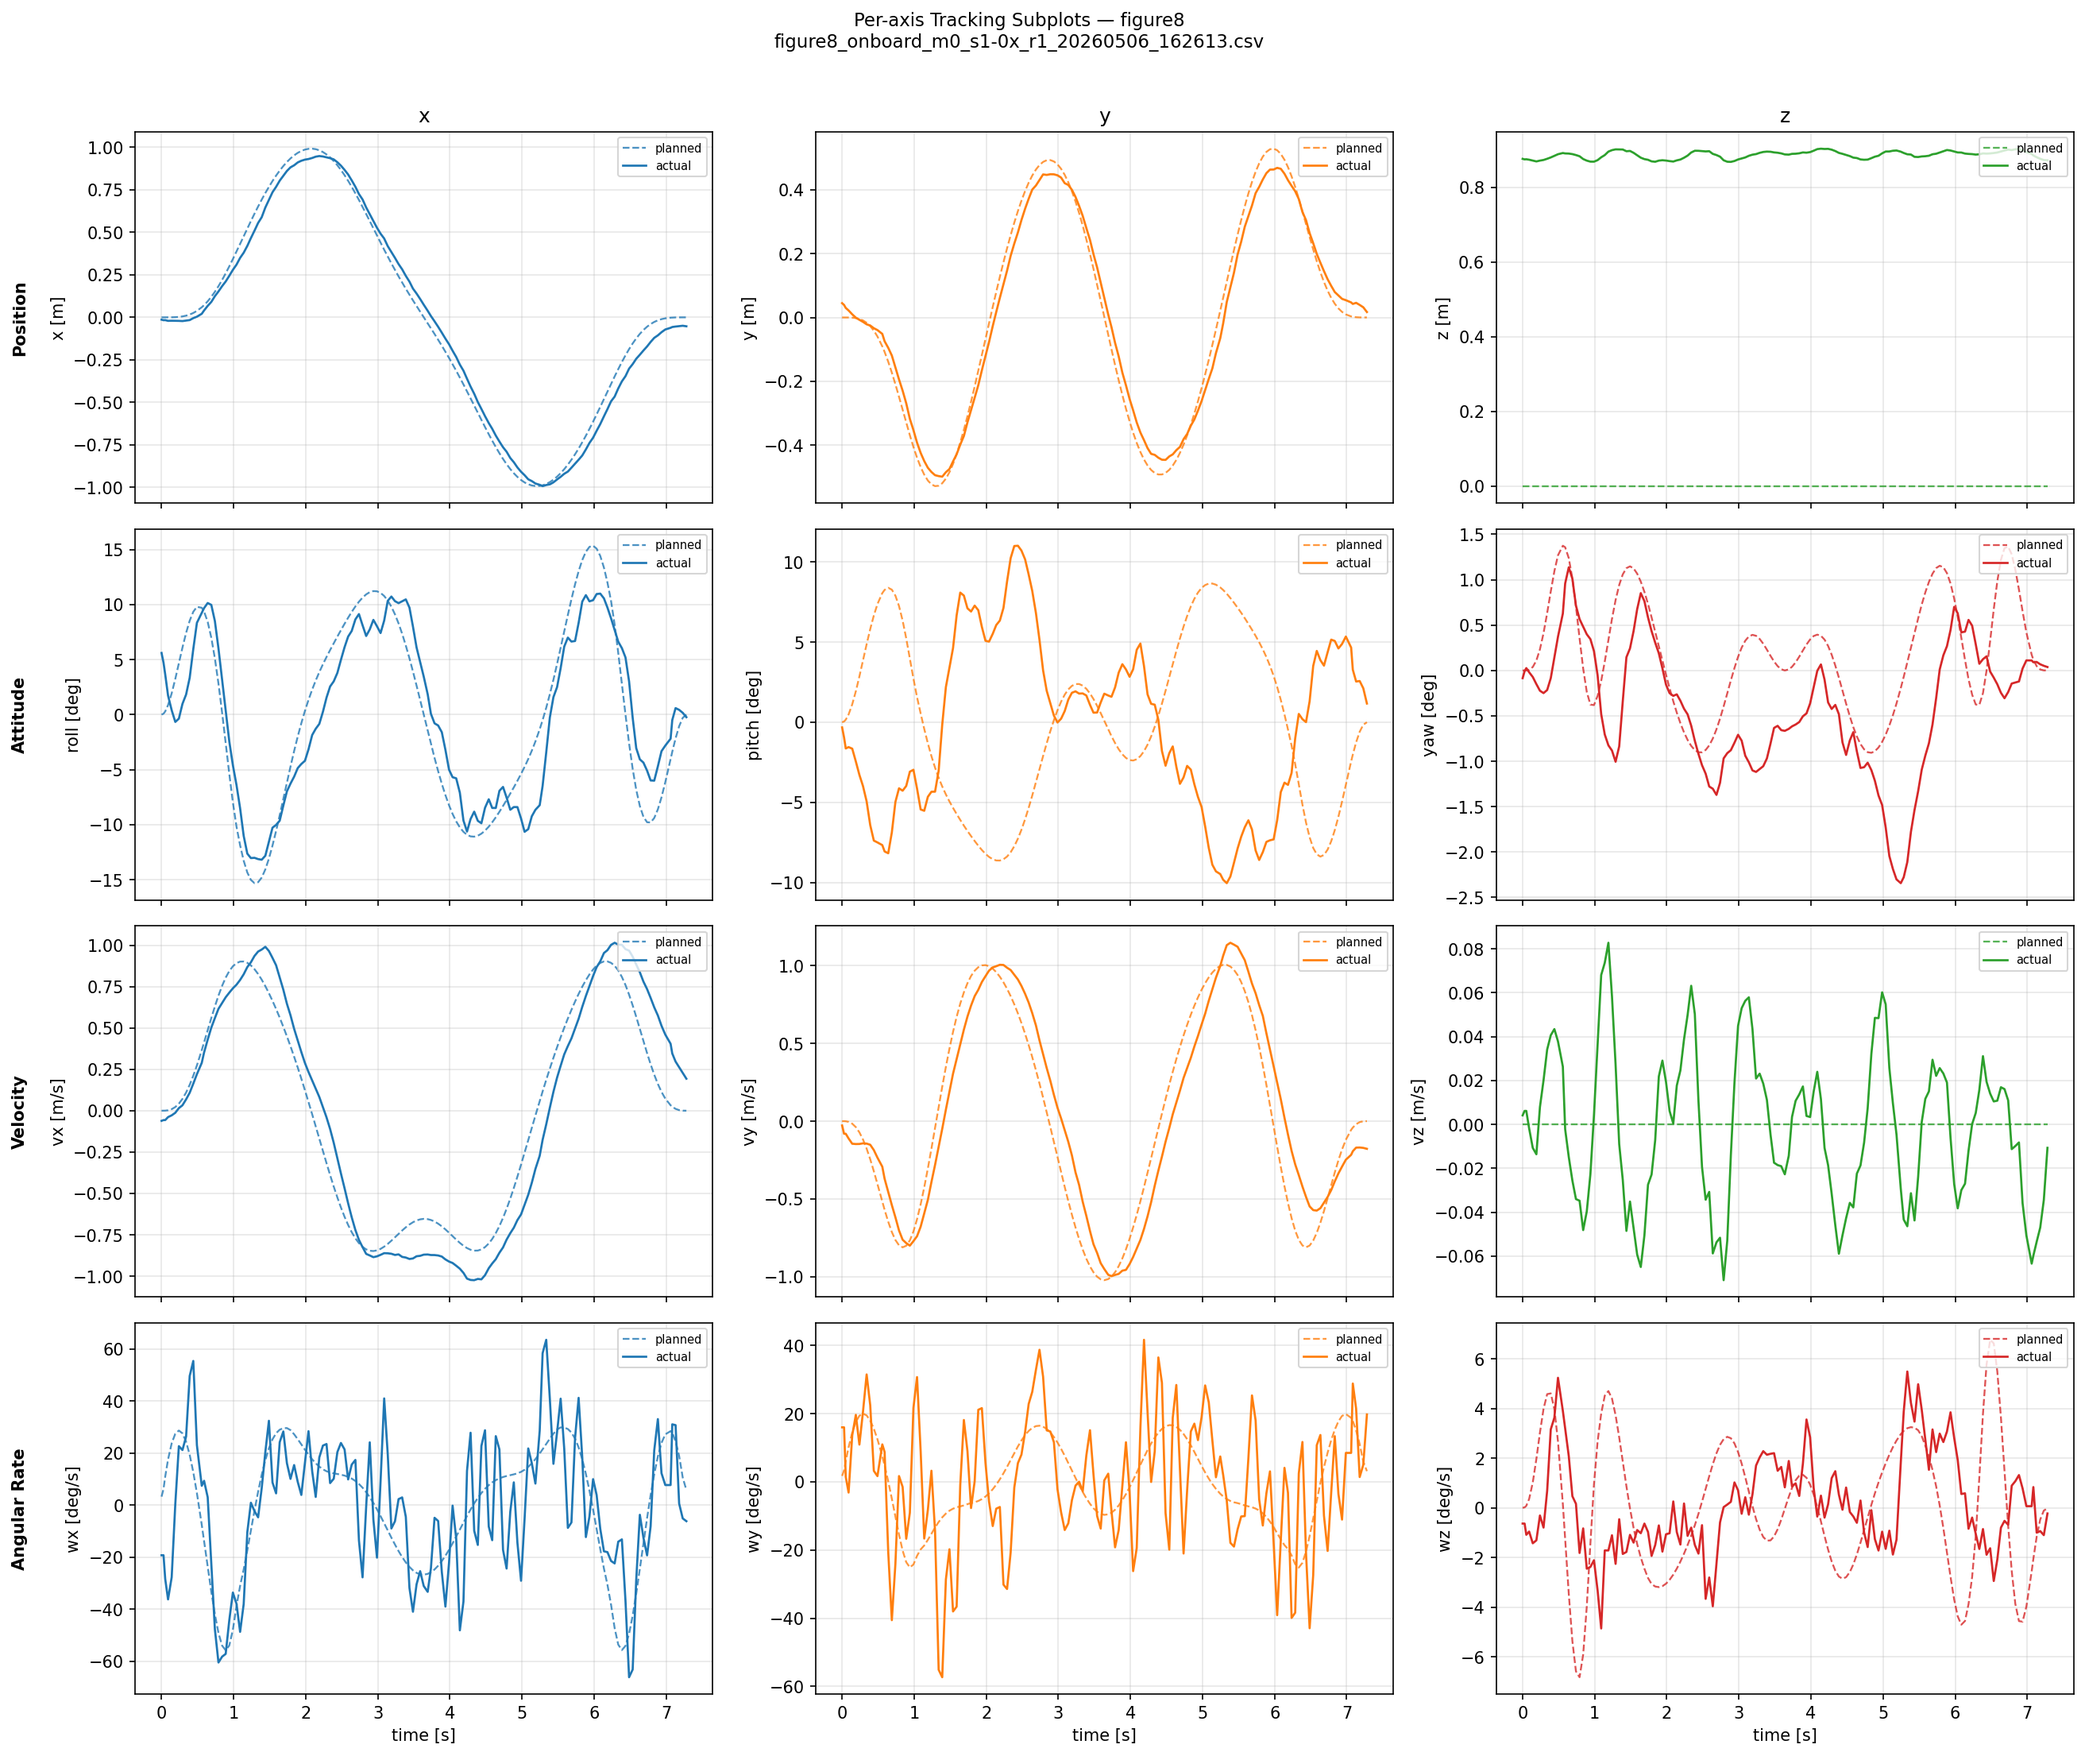
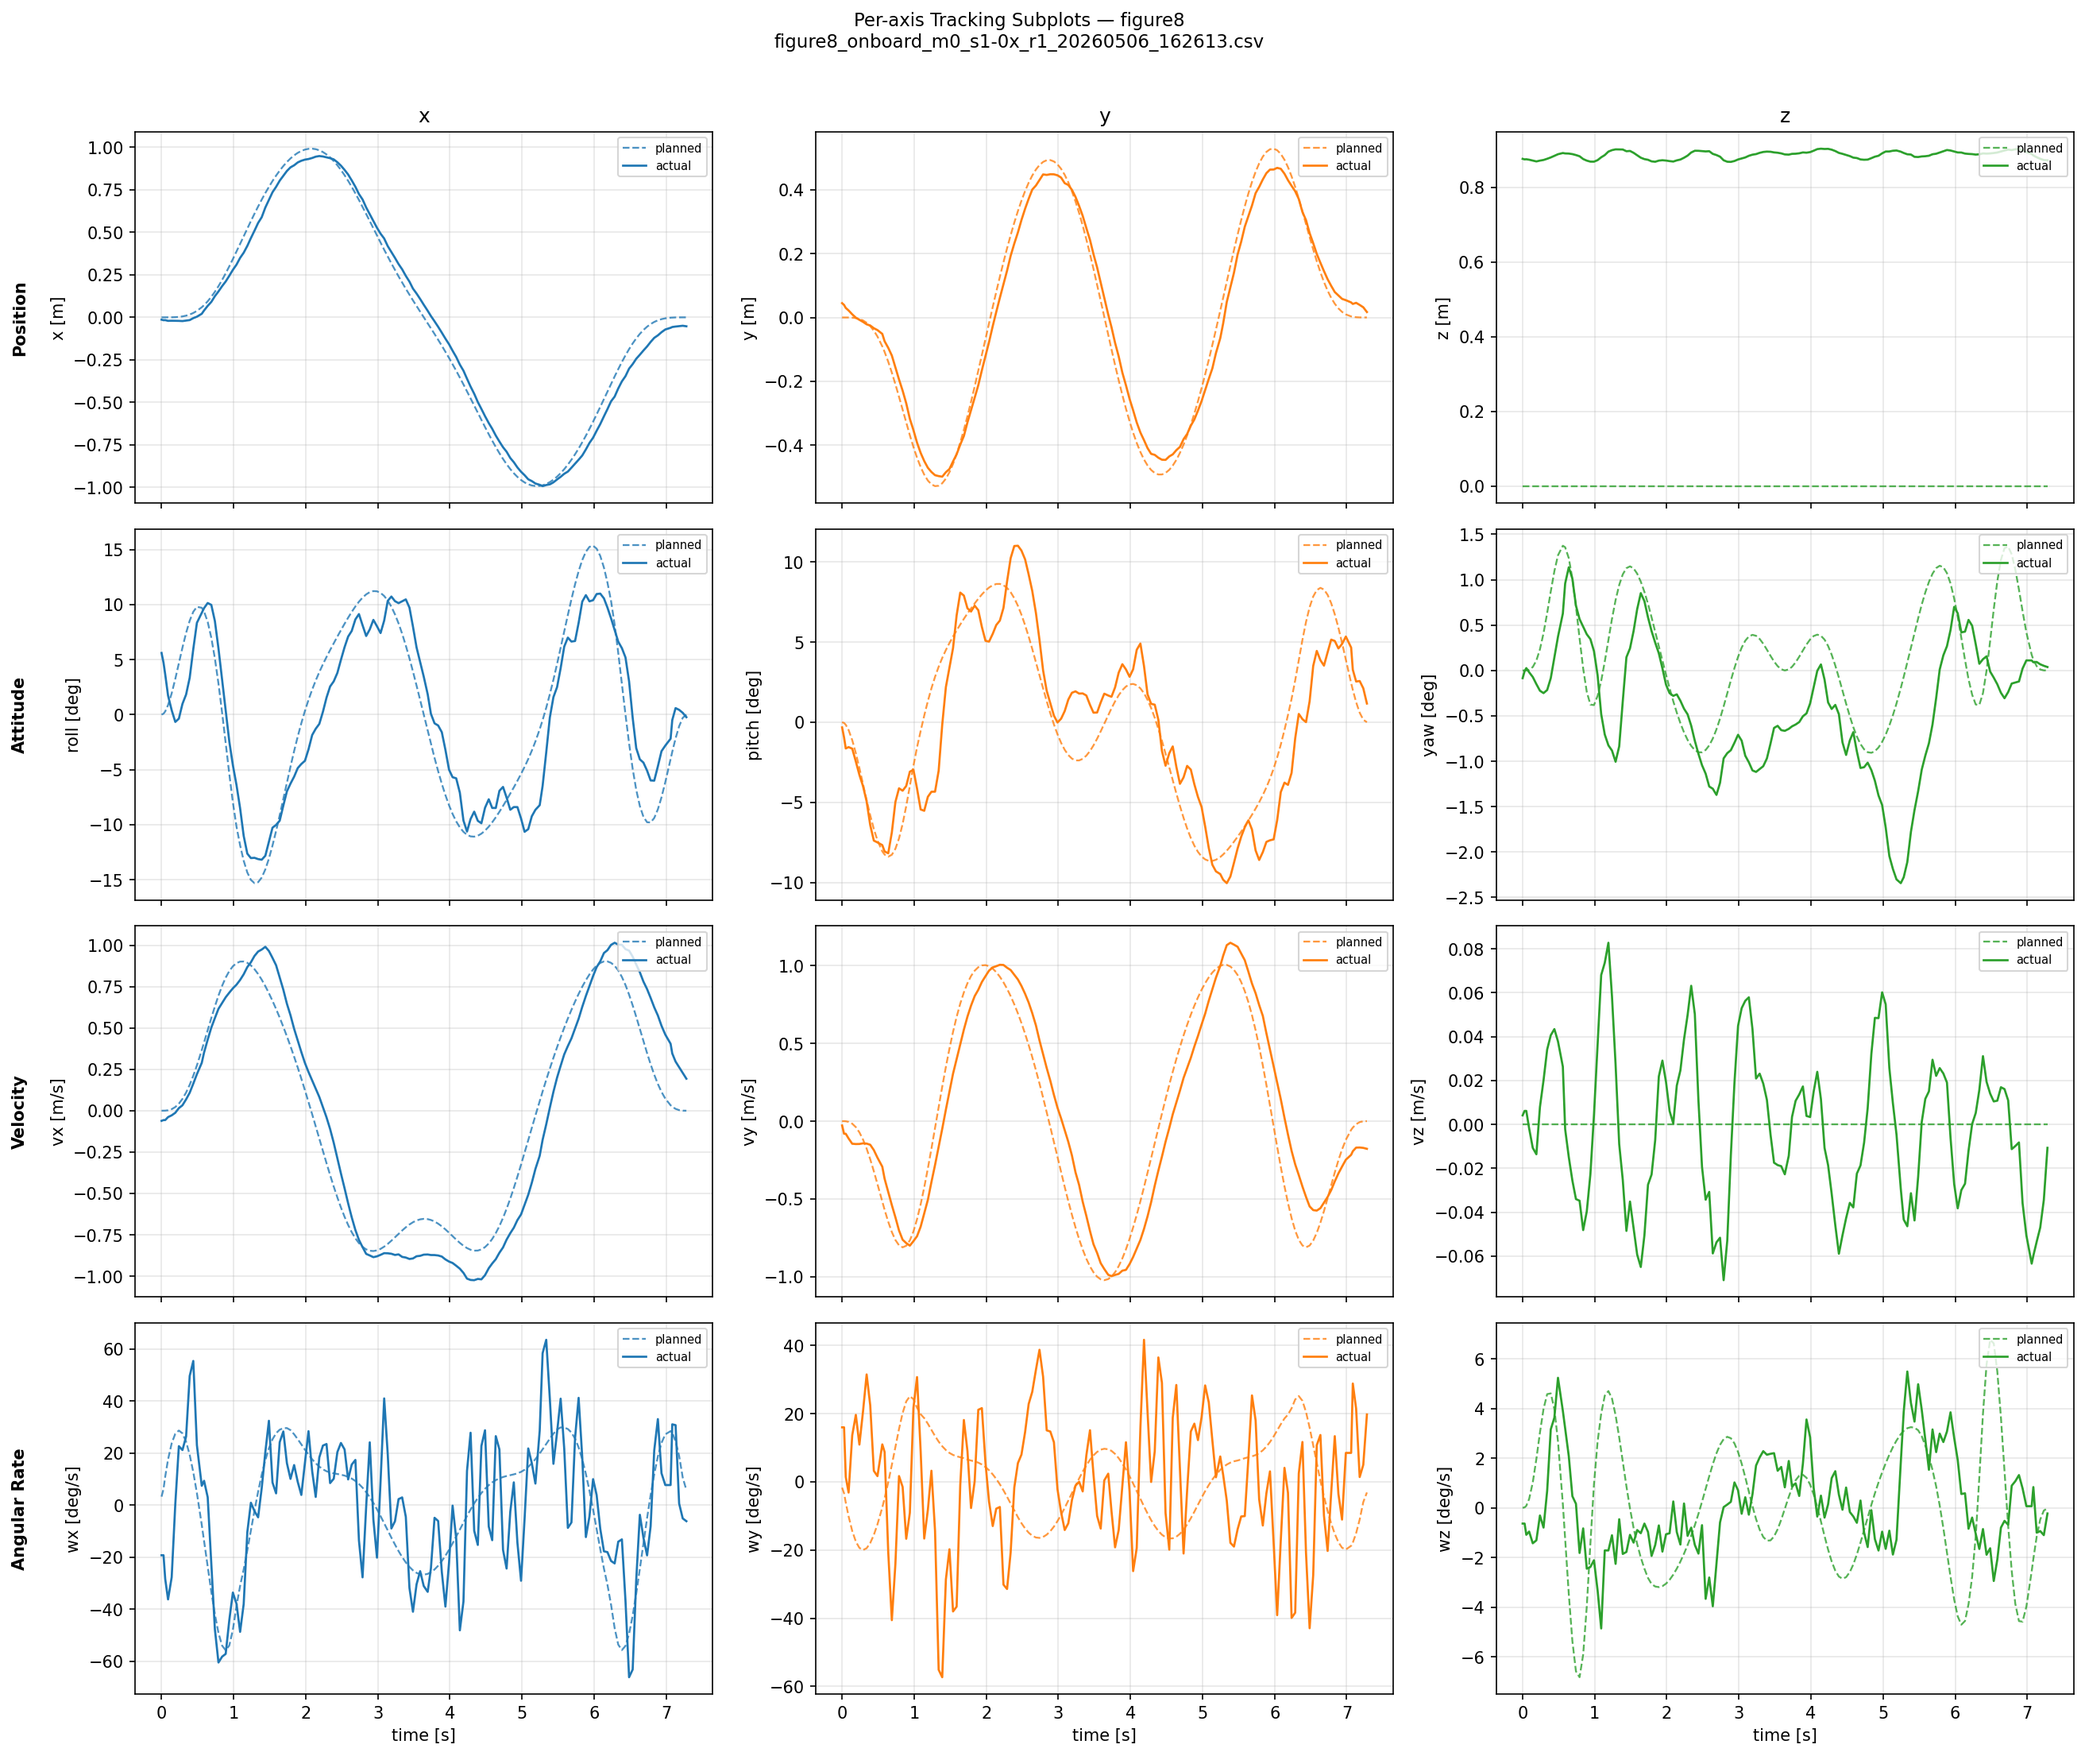
fix sign flip in analytics script.

diff --git a/Controls/analyze_flight.py b/Controls/analyze_flight.py
@@ -1478,7 +1478,9 @@ def compute_planned_attitude(segs, t_elapsed, speed_scale, xy_scale, loop=False)
 
     # ZYX Euler angles
     roll_rad = np.arctan2(R[2, 1], R[2, 2])
-    pitch_rad = np.arcsin(-float(np.clip(R[2, 0], -1.0, 1.0)))
+    # Match Crazyflie log convention: pitch sign is opposite of the raw ZYX extraction
+    # used in the flatness frame derivation.
+    pitch_rad = -np.arcsin(-float(np.clip(R[2, 0], -1.0, 1.0)))
     yaw_rad = np.arctan2(R[1, 0], R[0, 0])
 
     return np.degrees(roll_rad), np.degrees(pitch_rad), np.degrees(yaw_rad)
@@ -1858,10 +1860,11 @@ def plot_helix_analysis(data, csv_path, lap_time=10.5):
         x_B = xb_raw / xb_n if xb_n > 1e-9 else np.array([1., 0., 0.])
         y_B = np.cross(z_B, x_B)
         R = np.column_stack([x_B, y_B, z_B])
-        p_pitch[i] = _math.degrees(_math.asin(max(-1., min(1., -R[2, 0]))))
+        p_pitch[i] = -_math.degrees(_math.asin(max(-1., min(1., -R[2, 0]))))
         p_roll[i]  = _math.degrees(_math.atan2(R[2, 1], R[2, 2]))
     p_omega_x = np.gradient(p_roll,  ts)
-    p_omega_y = np.gradient(p_pitch, ts)
+    # Gyro Y in logs is opposite of d(pitch)/dt from this Euler convention.
+    p_omega_y = -np.gradient(p_pitch, ts)
     p_omega_z = np.zeros(len(ts))   # yaw constant
 
     # ── Errors ────────────────────────────────────────────────────────────
@@ -2106,7 +2109,7 @@ def plot_onboard_circle_analysis(data, csv_path, n_reps=1):
         xb_raw = np.cross(yc, f); xb_n = float(np.linalg.norm(xb_raw))
         x_B = xb_raw / xb_n if xb_n > 1e-9 else np.array([1., 0., 0.])
         R = np.column_stack([x_B, np.cross(z_B, x_B), z_B])
-        p_pitch[i] = _math.degrees(_math.asin(max(-1., min(1., -R[2, 0]))))
+        p_pitch[i] = -_math.degrees(_math.asin(max(-1., min(1., -R[2, 0]))))
         p_roll[i]  = _math.degrees(_math.atan2(R[2, 1], R[2, 2]))
 
     err_xy  = np.sqrt((xa - xr)**2 + (ya - yr)**2)
@@ -2273,7 +2276,7 @@ def plot_onboard_helix_analysis(data, csv_path, n_reps=1):
         xb_raw = np.cross(yc, f); xb_n = float(np.linalg.norm(xb_raw))
         x_B = xb_raw / xb_n if xb_n > 1e-9 else np.array([1., 0., 0.])
         R = np.column_stack([x_B, np.cross(z_B, x_B), z_B])
-        p_pitch[i] = _math.degrees(_math.asin(max(-1., min(1., -R[2, 0]))))
+        p_pitch[i] = -_math.degrees(_math.asin(max(-1., min(1., -R[2, 0]))))
         p_roll[i]  = _math.degrees(_math.atan2(R[2, 1], R[2, 2]))
 
     err_xy  = np.sqrt((xa - xr)**2 + (ya - yr)**2)
@@ -2823,7 +2826,8 @@ def plot_analysis(data, segs, traj_type, speed_scale, xy_scale, loop, csv_path):
     # Planned angular rates: numerical diff of Euler angles (Euler rates ≈ body omega for small roll/pitch)
     dt = np.gradient(times)
     p_omega_x = np.gradient(planned_att[:, 0], times)   # droll/dt  [deg/s]
-    p_omega_y = np.gradient(planned_att[:, 1], times)   # dpitch/dt [deg/s]
+    # Keep wy sign consistent with logged gyro_y convention.
+    p_omega_y = -np.gradient(planned_att[:, 1], times)  # dpitch/dt [deg/s]
     p_omega_z = np.gradient(planned_att[:, 2], times)   # dyaw/dt   [deg/s]
 
     # Errors — Z uses relative coords (poly4d is relative_position=True)
@@ -3063,7 +3067,7 @@ def plot_analysis(data, segs, traj_type, speed_scale, xy_scale, loop, csv_path):
         [
             ("roll [deg]", data["roll_deg"], p_roll, "tab:blue"),
             ("pitch [deg]", data["pitch_deg"], p_pitch, "tab:orange"),
-            ("yaw [deg]", data["yaw_deg"], p_yaw, "tab:red"),
+            ("yaw [deg]", data["yaw_deg"], p_yaw, "tab:green"),
         ],
         [
             ("vx [m/s]", data["vx"], plan_vel[:, 0], "tab:blue"),
@@ -3073,7 +3077,7 @@ def plot_analysis(data, segs, traj_type, speed_scale, xy_scale, loop, csv_path):
         [
             ("wx [deg/s]", data["gyro_x"], p_omega_x, "tab:blue"),
             ("wy [deg/s]", data["gyro_y"], p_omega_y, "tab:orange"),
-            ("wz [deg/s]", data["gyro_z"], p_omega_z, "tab:red"),
+            ("wz [deg/s]", data["gyro_z"], p_omega_z, "tab:green"),
         ],
     ]
     row_titles = ["Position", "Attitude", "Velocity", "Angular Rate"]
@@ -3361,8 +3365,24 @@ def main():
 
     # Infer trajectory type from filename
     traj_type = args.type
+    base = os.path.basename(csv_path).lower()
+    forced_onboard = None
+    if "onboard" in base and "circle" in base:
+        forced_onboard = "onboard_circle"
+    elif "onboard" in base and "helix" in base:
+        forced_onboard = "onboard_helix"
+    elif "onboard" in base and ("figure8" in base or "fig8" in base):
+        forced_onboard = "onboard_figure8"
+
+    if forced_onboard and traj_type != forced_onboard:
+        if args.type is not None:
+            print(
+                f"Detected onboard log from filename; overriding --type {traj_type} "
+                f"with {forced_onboard}."
+            )
+        traj_type = forced_onboard
+
     if traj_type is None:
-        base = os.path.basename(csv_path).lower()
         if "fast_circle" in base:                         # before "circle"
             traj_type = "fast_circle"
         elif "fast_flip" in base:                         # before "flip"

diff --git a/flying_drone_stack/src/bin/planning_sim.rs b/flying_drone_stack/src/bin/planning_sim.rs
@@ -1183,6 +1183,60 @@ fn run_kt_scan(args: &[String]) {
         }
     }
 
+    // Modes 1 and 3 scan for trajectories that require plan_from_times (SE3-derived durations).
+    {
+        let (immelmann_se3_wps, immelmann_se3_durs) = immelmann_waypoints_se3(0.5);
+        let (splits_se3_wps,    splits_se3_durs)    = splits_waypoints_se3(0.5);
+        let (screw_se3_wps,     screw_se3_durs)     = screw_waypoints_se3(0.5, 2.0);
+        let immelmann_wps = se3_to_flat_waypoints(&immelmann_se3_wps);
+        let splits_wps    = se3_to_flat_waypoints(&splits_se3_wps);
+        let screw_wps     = se3_to_flat_waypoints(&screw_se3_wps);
+        let fixed_time_trajs: [(&str, &[Waypoint], &[f32]); 3] = [
+            ("immelmann", &immelmann_wps, &immelmann_se3_durs),
+            ("splits",    &splits_wps,    &splits_se3_durs),
+            ("screw",     &screw_wps,     &screw_se3_durs),
+        ];
+        for (mode, label) in [(1_u8, "Richter"), (3_u8, "Paper")] {
+            for (traj_name, wps, durs) in fixed_time_trajs {
+                let mut candidates: Vec<(f32, f32)> = Vec::new();
+                for &kt in &kts {
+                    let planner = if mode == 1 {
+                        match RichterTrajectory::plan_from_times(wps, durs, kt, false, 0) {
+                            Ok(r) => TrajectoryPlanner::Richter(r),
+                            Err(_) => continue,
+                        }
+                    } else {
+                        match RichterTrajectory::plan_from_times(wps, durs, kt, false, 0) {
+                            Ok(r) => TrajectoryPlanner::Paper(r),
+                            Err(_) => continue,
+                        }
+                    };
+                    let util = sampled_util_flat(&planner, FEAS_CF2);
+                    candidates.push((kt, util));
+                }
+                if let Some((kt, util, ok)) = select_kt_candidate(&candidates, target_util_min, target_util_max) {
+                    println!(
+                        "mode {} {:<8} {:<10} -> k_t={:.4}  util={:.3}  {}",
+                        mode,
+                        label,
+                        traj_name,
+                        kt,
+                        util,
+                        if ok { "within target band" } else { "closest feasible fallback" }
+                    );
+                    rows.push(KtScanRow {
+                        mode,
+                        trajectory: traj_name,
+                        recommended_kt: kt,
+                        utilization: util,
+                        feasible_under_target: ok,
+                        status: classify_status(util, target_util_min, target_util_max),
+                    });
+                }
+            }
+        }
+    }
+
     // Mode 2 scan: k_t controls Richter timing that is reused for Se3 position segment times.
     let mode2_specs: [(&str, &[Se3Waypoint], &[Waypoint], bool); 6] = [
         ("circle", &circle_se3_wps, &circle_wps, true),
@@ -1545,7 +1599,7 @@ fn export_planning_reference_only() {
             &traj,
             &screw_se3_wps,
             "screw",
-            "vertical_ascent_body_x_roll_Rx_theta",
+            "vertical_ascent_yaw_spin_Rz_theta",
             2,
             "Se3Trajectory",
             FEAS_CF2,
@@ -3165,12 +3219,19 @@ fn main() {
         }
     }
     {
+        println!("    loop    total_time = {:.2} s", p3_loop.total_time());
+        let mut loop_time_scale_m3 = 1.0_f32;
+        if let Some(rep) = p3_loop.check_feasibility(MASS, MAX_THRUST, MAX_OMEGA) {
+            loop_time_scale_m3 = rep.suggested_time_scale.max(1.0);
+        }
+        loop_time_scale_m3 = loop_time_scale_m3.max(MODE1_LOOP_GEO_TIME_SCALE_MIN);
+        println!("    loop    closed-loop sim time_scale={:.2}", loop_time_scale_m3);
         println!("  [Geo]");
-        let rg = run_flat(&p3_loop, &params, &mut GeometricController::default(), 1.0, "mode3 loop geo");
+        let rg = run_flat_scaled(&p3_loop, &params, &mut GeometricController::default(), 1.0, loop_time_scale_m3, "mode3 loop geo");
         write_closed_loop_csv(3, "loop", "geo", &rg);
         if RUN_INDI_CLOSED_LOOP {
             println!("  [INDI]");
-            let ri = run_flat_indi(&p3_loop, &params, 1.0, "mode3 loop indi");
+            let ri = run_flat_indi_scaled(&p3_loop, &params, 1.0, loop_time_scale_m3, "mode3 loop indi");
             write_closed_loop_csv(3, "loop", "indi", &ri);
         }
     }

diff --git a/flying_drone_stack/scripts/plot_planning_reference.py b/flying_drone_stack/scripts/plot_planning_reference.py
@@ -1059,20 +1059,24 @@ def _plot_reference_csv(csv_path: str) -> None:
 def plot_cross_mode_comparisons() -> None:
     """Overlay Mode 0 / 1 / 2 / 3 / 4 planner references for the same trajectory shape."""
     shapes: Tuple[Tuple[str, Tuple[int, ...]], ...] = (
-        ("circle",    (0, 1, 2)),
-        ("figure8",   (0, 1, 2)),
-        ("helix",     (0, 1, 2)),
-        ("corner",    (0, 1, 2)),
-        ("loop",      (0, 1, 2)),
+        ("circle",    (0, 1, 2, 3)),
+        ("figure8",   (0, 1, 2, 3)),
+        ("helix",     (0, 1, 2, 3)),
+        ("corner",    (0, 1, 2, 3)),
+        ("loop",      (0, 1, 2, 3)),
         ("flip",      (2,)),
-        ("corkscrew", (0, 1, 2)),
+        ("corkscrew", (0, 1, 2, 3)),
         ("roll",      (2,)),
+        ("immelmann", (2, 3)),
+        ("splits",    (2, 3)),
+        ("screw",     (2, 3)),
     )
-    colors = {0: "#1f77b4", 1: "#ff7f0e", 2: "#2ca02c"}
+    colors = {0: "#1f77b4", 1: "#ff7f0e", 2: "#2ca02c", 3: "#9467bd"}
     labels = {
         0: "Mode 0 spline",
         1: "Mode 1 Richter",
         2: "Mode 2 SE(3)",
+        3: "Mode 3 paper",
     }
 
     os.makedirs(CROSS_ROOT, exist_ok=True)

diff --git a/flying_drone_stack/src/bin/onboard_figure8.rs b/flying_drone_stack/src/bin/onboard_figure8.rs
@@ -78,7 +78,7 @@ fn build_planner(mode: u8, speed: f32, k_t: f32) -> TrajectoryPlanner {
             TrajectoryPlanner::se3(&se3_wps, &kt_durs, 0.031, true)
                 .expect("Figure-8 Mode 2 QP failed")
         }
-        3 => TrajectoryPlanner::paper(&wps, k_t, true)
+        3 => TrajectoryPlanner::paper(&wps, k_t, false)
             .expect("Figure-8 Mode 3 paper QP failed"),
         _ => TrajectoryPlanner::spline(&wps, &durs, false)
             .expect("Figure-8 Mode 0 QP failed"),
